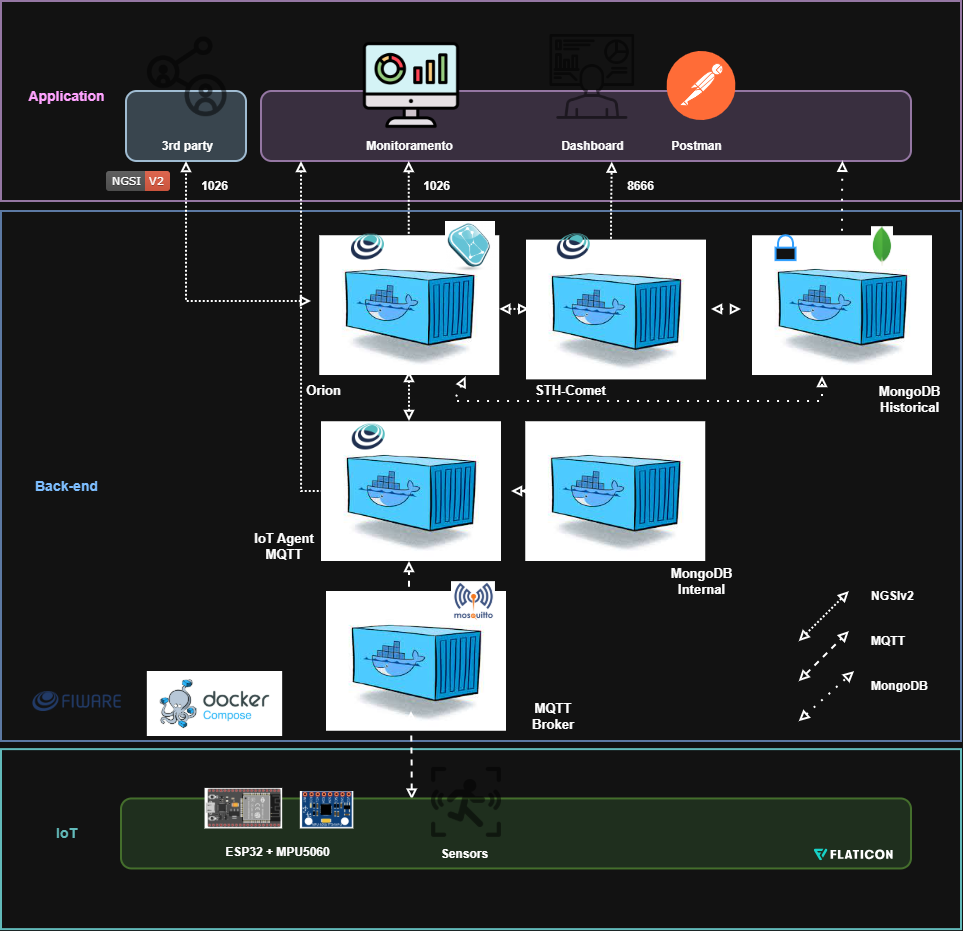
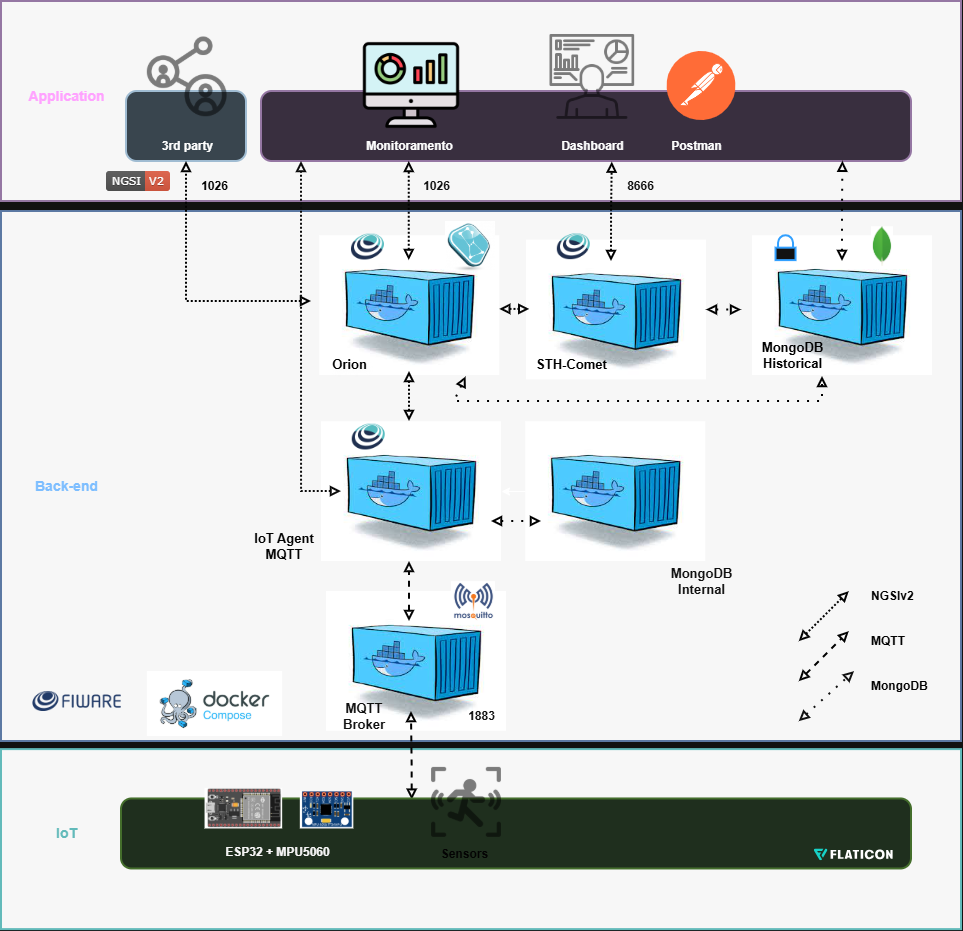
Atualizando o readme

diff --git a/README.md b/README.md
@@ -40,6 +40,8 @@ O objetivo do sistema é:
 
 ## Arquitetura da solução
 
+<img src="arquitetura.drawio.png">
+
 O fluxo do sistema funciona assim:
 
 1. O **ESP32** lê os sensores de luminosidade, temperatura e umidade.